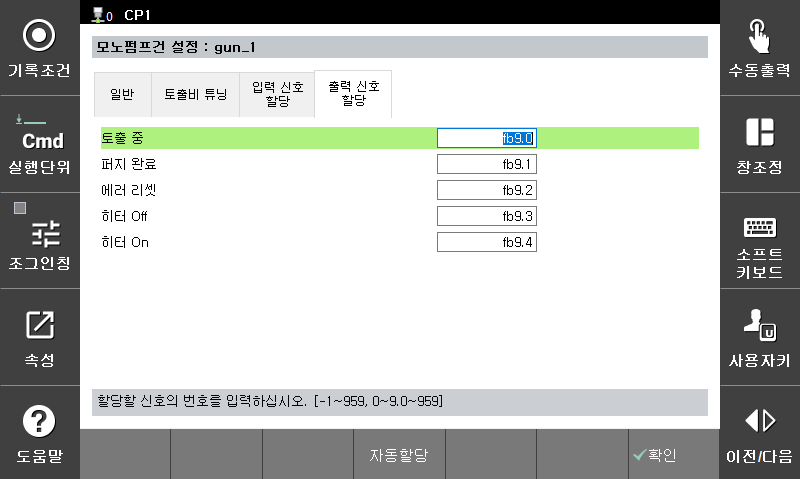
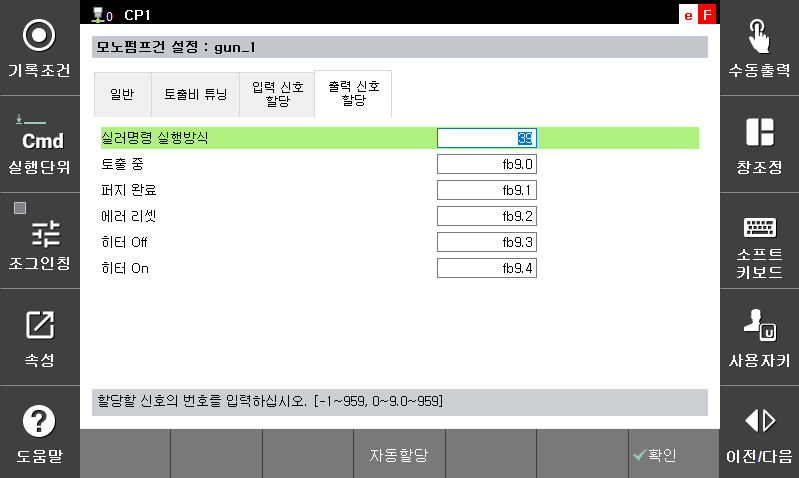
[HIXM-4075] 모노펌프 기능에 "실러명령 실행방식" 추가

diff --git a/2-basic-setting/3-monopump-setup/3-input-signal-assign.md b/2-basic-setting/3-monopump-setup/3-input-signal-assign.md
@@ -7,6 +7,7 @@
 [자동할당] 버튼에 의하여 선택된 용접기 제조사에 따른 신호의 자동 설정이 가능합니다. <br>
     ![](../../_assets/image9_1.png)
 
+- 실러명령 실행방식 : 작업 프로그램에서 msealer on/off 명령문을 실행하여 토출을 수행합니다. 그런데 설정된 신호가 on 상태이면 실제 토출은 수행하지 않고 작업 프로그램을 실행할 수 있습니다. <br> 
 - 통신 상태 : 실러 제어반과의 통신 상태를 확인합니다. 실러 제어반은 해당 신호를 1초마다 on/off 반복하도록 제어하면 됩니다. <br>
 로봇 제어기는 해당 신호의 상태가 1초 이상 변경되지 않으면 "E6319 실링 장비 통신이상" 에러를 발생합니다. <br>
 - 그 외 신호 : 실러 제어반의 상태를 확인합니다. 로봇 제어기에서 해당 상태를 검지하여 에러나 경고를 발생하고자 할 때에는 사용자 정의 에러/경고 기능을 사용하십시오. <br>

diff --git a/2-basic-setting/3-monopump-setup/4-output-signal-assign.md b/2-basic-setting/3-monopump-setup/4-output-signal-assign.md
@@ -7,6 +7,7 @@
 [자동할당] 버튼에 의하여 선택된 용접기 제조사에 따른 신호의 자동 설정이 가능합니다. <br>
 ![](../../_assets/image9_1.png)
 
+- 실러명령 실행방식 : 작업 프로그램에서 msealer on/off 명령문을 실행하여 토출을 수행합니다. 그런데 사용자 설정이나 입력신호 상태에 의해서 실제 토출을 수행하지 않고 작업 프로그램을 실행할 수 있습니다. 실제 토출의 수행 여부에 대한 출력입니다. <br> 
 - 토출 중 : 모노펌프 건이 실러의 토출 여부를 출력합니다. <br>
 - 에러 리셋 : 실러 제어반에 이상이 발생한 경우에 이를 리셋하기 위한 출력입니다.  <br>
   R1(에러 리셋) 동작이나 "에러/경보 신호 클리어" 신호가 입력되면 동작하는데 동작은 1초 동안 on되는 펄스 신호로 출력됩니다.<br>

diff --git a/2-basic-setting/3-monopump-setup/1-general.md b/2-basic-setting/3-monopump-setup/1-general.md
@@ -7,4 +7,5 @@
 - 제조사 : 모노펌프 건의 제조사를 선택합니다.
 - 토출비 단위 : 토출비 인터페이스를 위한 단위를 선택합니다.
 - 비중 : 실러 물질의 비중을 설정합니다.
+- 실러명령 실행방식 : 작업 프로그램에서 msealer on/off 명령문을 실행하여 토출을 수행합니다. 그런데 <토출 off>를 선택하면 실제 토출은 수행하지 않고 작업 프로그램을 실행할 수 있습니다. 
 
